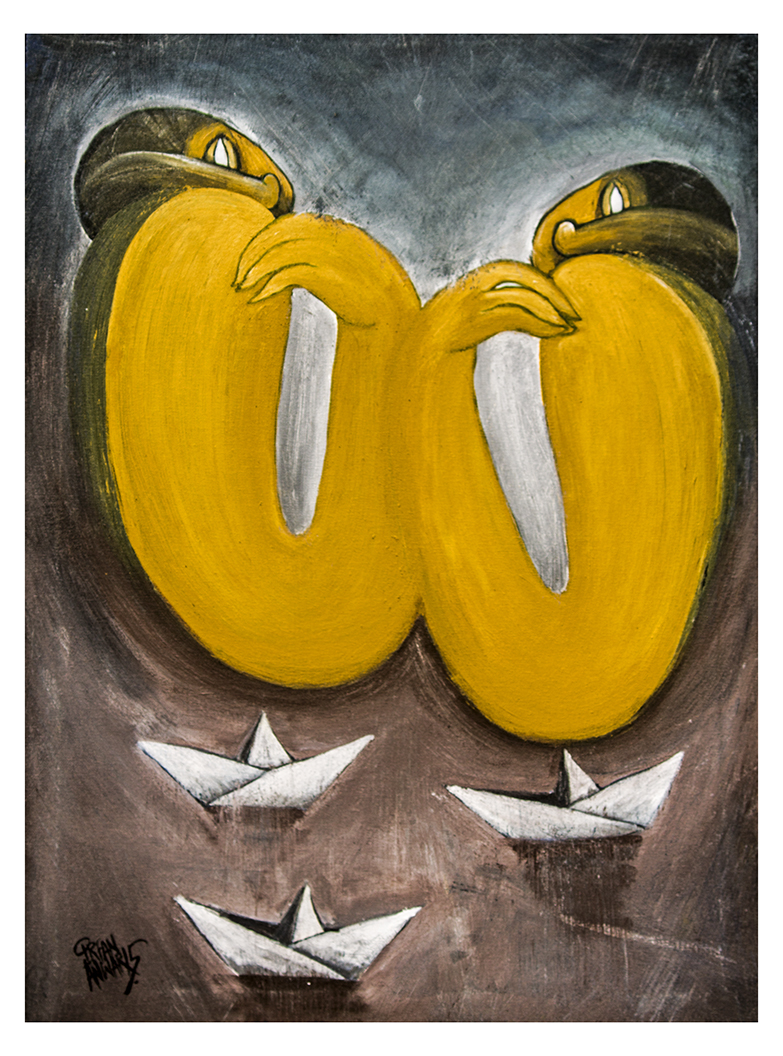
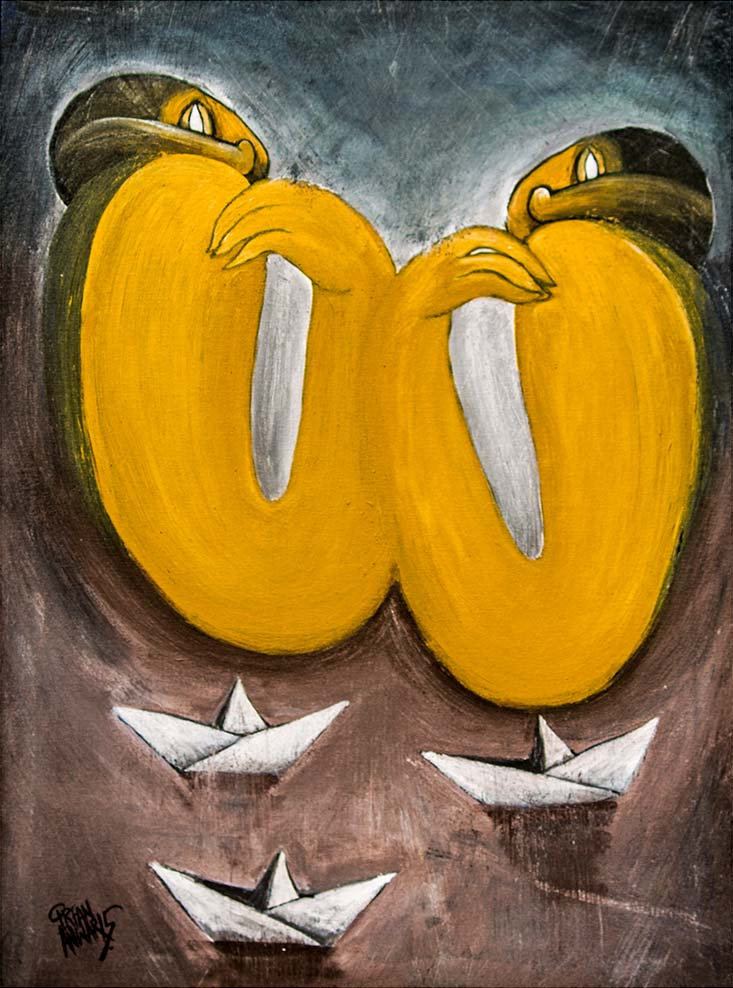
changes

diff --git a/paitings/canvas-paintings/paintings.html b/paitings/canvas-paintings/paintings.html
@@ -243,7 +243,7 @@
                 </div>
             </div>
 
-            <div class="gallery-row-item">
+            <!-- <div class="gallery-row-item">
                 <div class="img-box">
                     <img src="../../images/paintings/painting-03.jpg" alt="Untitled">
                 </div>
@@ -254,15 +254,15 @@
                     </div>
                     <span class="painting-status available">Available</span>
                 </div>
-            </div>
+            </div> -->
 
             <div class="gallery-row-item">
                 <div class="img-box">
-                    <img src="../../images/paintings/black-white-01.jpg" alt="Black and White 1">
+                    <img src="../../images/paintings/paintings 3.jpg" alt="paintings 3">
                 </div>
                 <div class="painting-info">
                     <div class="painting-main-details">
-                        <div class="painting-title">Black and White 1</div>
+                        <div class="painting-title">Untitled (2015)</div>
                         <div class="painting-size">45 x 28 inches</div>
                     </div>
                     <span class="painting-status available">Available</span>
@@ -270,6 +270,32 @@
             </div>
 
             <div class="gallery-row-item">
+                <div class="img-box">
+                    <img src="../../images/paintings/paintings 4.jpg" alt="paintings 4">
+                </div>
+                <div class="painting-info">
+                    <div class="painting-main-details">
+                        <div class="painting-title">Untitled (2017)</div>
+                        <div class="painting-size">70 x 40 inches</div>
+                    </div>
+                    <span class="painting-status available">Available</span>
+                </div>
+            </div>
+
+            <div class="gallery-row-item">
+                <div class="img-box">
+                    <img src="../../images/paintings/untitled (2015).jpg" alt="Untitled 2015">
+                </div>
+                <div class="painting-info">
+                    <div class="painting-main-details">
+                        <div class="painting-title">Untitled (2015)</div>
+                        <div class="painting-size">45 x 28 inches</div>
+                    </div>
+                    <span class="painting-status available">Available</span>
+                </div>
+            </div>
+
+            <!-- <div class="gallery-row-item">
                 <div class="img-box">
                     <img src="../../images/paintings/crisis-of-civilization-03.jpg" alt="untitled">
                 </div>
@@ -280,7 +306,7 @@
                     </div>
                     <span class="painting-status available">Available</span>
                 </div>
-            </div>
+            </div> -->
 
         </div>
     </div>

diff --git a/js/layout.js b/js/layout.js
@@ -14,6 +14,10 @@ document.addEventListener("DOMContentLoaded", function () {
     const headInjection = `
         <meta charset="UTF-8">
         <meta name="viewport" content="width=device-width, initial-scale=1.0">
+        <title>Irfan Anwar - Visual Artist, Creative Designer & Filmmaker</title>
+        <meta name="description" content="Official portfolio of Irfan Anwar, featuring visual arts, canvas paintings, digital art, black ink drawings, photography, and experimental films.">
+        <meta name="keywords" content="Irfan Anwar, irfan anwar, irfananwar,Irfan Anwar artist, visual artist, creative designer, filmmaker, art portfolio, irfananwar.com">
+        <meta name="author" content="Irfan Anwar">
         <link rel="icon" type="image/png" href="${faviconPath}">
         <link href="https://cdn.jsdelivr.net/npm/bootstrap@5.3.2/dist/css/bootstrap.min.css" rel="stylesheet">
         <link href="https://fonts.googleapis.com/css2?family=Montserrat:wght@400;500;600;700&display=swap" rel="stylesheet">
